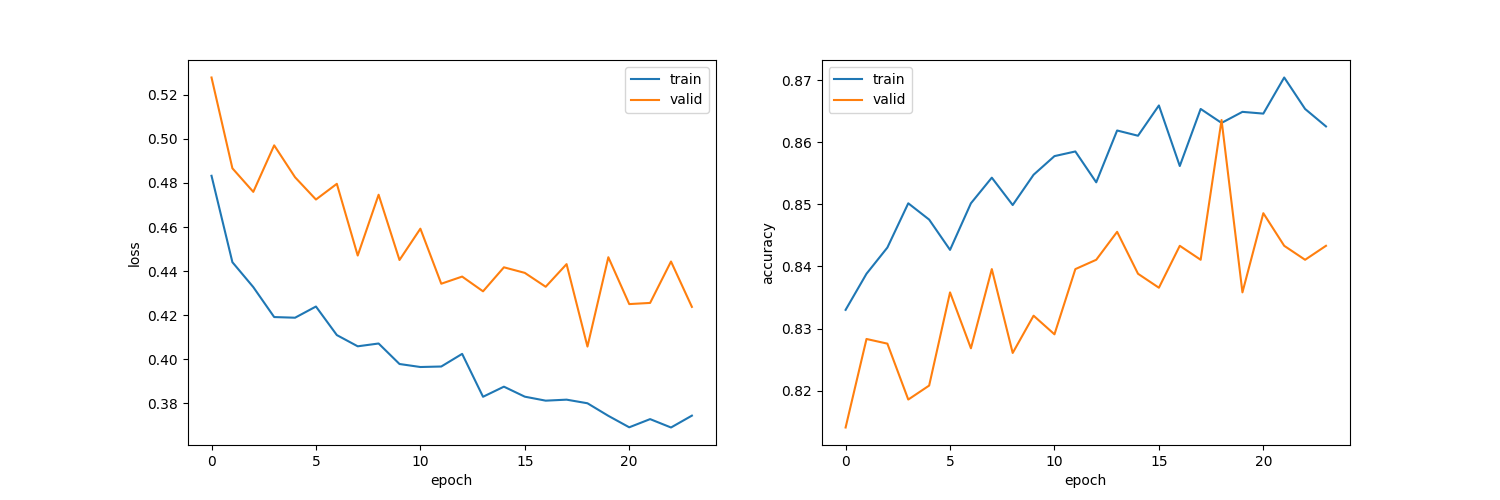
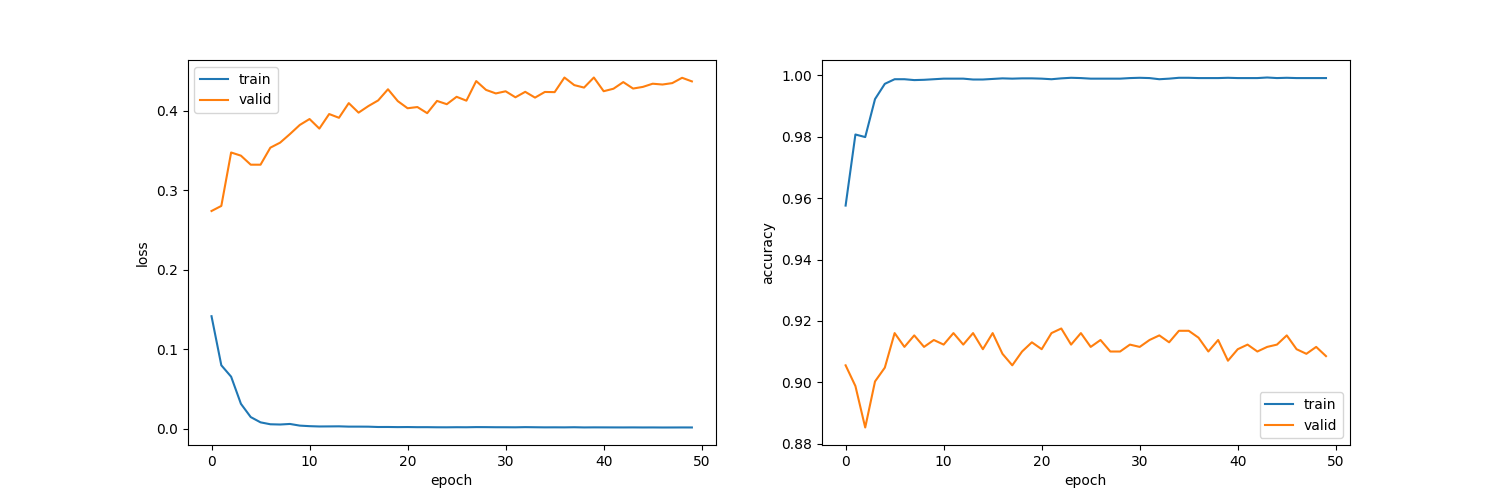
fix: knock79.pyの修正

diff --git a/ritsu/chapter08/knock79.py b/ritsu/chapter08/knock79.py
@@ -1,129 +1,3 @@
-# import torch
-# from torch import nn
-# from torch.utils.data import DataLoader, Dataset
-# import os
-# import time
-# import matplotlib.pyplot as plt
-
-# class NewsDataset(Dataset):
-#     def __init__(self, X, y):
-#         self.X = X
-#         self.y = y
-
-#     def __len__(self):
-#         return len(self.y)
-
-#     def __getitem__(self, idx):
-#         return self.X[idx], self.y[idx]
-
-# class MultiLayerPerceptron(nn.Module):
-#     def __init__(self, input_size, hidden_size, output_size, dropout_rate=0.5):
-#         super().__init__()
-#         self.fc1 = nn.Linear(input_size, hidden_size)
-#         self.fc2 = nn.Linear(hidden_size, output_size)
-#         self.dropout = nn.Dropout(dropout_rate)
-#         self.relu = nn.ReLU()
-
-#     def forward(self, x):
-#         x = self.fc1(x)
-#         x = self.relu(x)
-#         x = self.dropout(x)
-#         x = self.fc2(x)
-#         return x
-
-# def calc_loss_acc(model, criterion, loader, device):
-#     model.eval()
-#     loss = 0.0
-#     total = 0
-#     correct = 0
-#     with torch.no_grad():
-#         for inputs, labels in loader:
-#             inputs, labels = inputs.to(device), labels.to(device)
-#             outputs = model(inputs)
-#             loss += criterion(outputs, labels).item()
-#             pred = torch.argmax(outputs, dim=-1)
-#             total += labels.size(0)
-#             correct += (pred == labels).sum().item()
-#     return loss / len(loader), correct / total
-
-# def train_model(model, criterion, optimizer, train_loader, valid_loader, num_epochs, device):
-#     model.to(device)
-#     best_acc = 0.0
-#     for epoch in range(num_epochs):
-#         model.train()
-#         total_loss = 0.0
-#         start_time = time.time()
-
-#         for inputs, labels in train_loader:
-#             inputs, labels = inputs.to(device), labels.to(device)
-#             optimizer.zero_grad()
-#             outputs = model(inputs)
-#             loss = criterion(outputs, labels)
-#             loss.backward()
-#             optimizer.step()
-#             total_loss += loss.item()
-
-#         train_loss = total_loss / len(train_loader)
-#         valid_loss, valid_acc = calc_loss_acc(model, criterion, valid_loader, device)
-
-#         epoch_time = time.time() - start_time
-#         print(f'Epoch {epoch+1}/{num_epochs}, '
-#               f'Train Loss: {train_loss:.4f}, '
-#               f'Valid Loss: {valid_loss:.4f}, Valid Acc: {valid_acc:.4f}, '
-#               f'Time: {epoch_time:.2f}s')
-
-#         if valid_acc > best_acc:
-#             best_acc = valid_acc
-#             torch.save(model.state_dict(), 'best_model.pth')
-
-#     return best_acc
-
-# def main():
-#     current_dir = os.path.dirname(os.path.abspath(__file__))
-
-#     device = torch.device("cuda" if torch.cuda.is_available() else "cpu")
-#     print(f"Using device: {device}")
-
-#     X_train = torch.load(os.path.join(current_dir, "X_train.pt"))
-#     X_valid = torch.load(os.path.join(current_dir, "X_valid.pt"))
-#     X_test = torch.load(os.path.join(current_dir, "X_test.pt"))
-#     y_train = torch.load(os.path.join(current_dir, "y_train.pt"))
-#     y_valid = torch.load(os.path.join(current_dir, "y_valid.pt"))
-#     y_test = torch.load(os.path.join(current_dir, "y_test.pt"))
-
-#     dataset_train = NewsDataset(X_train, y_train)
-#     dataset_valid = NewsDataset(X_valid, y_valid)
-#     dataset_test = NewsDataset(X_test, y_test)
-
-#     batch_size = 64
-#     dataloader_train = DataLoader(dataset_train, batch_size=batch_size, shuffle=True)
-#     dataloader_valid = DataLoader(dataset_valid, batch_size=len(dataset_valid), shuffle=False)
-#     dataloader_test = DataLoader(dataset_test, batch_size=len(dataset_test), shuffle=False)
-
-#     input_size = 300
-#     hidden_size = 128
-#     output_size = 4
-#     model = MultiLayerPerceptron(input_size, hidden_size, output_size)
-#     criterion = nn.CrossEntropyLoss()
-#     optimizer = torch.optim.Adam(model.parameters(), lr=0.001, weight_decay=1e-5)
-
-#     num_epochs = 30
-#     best_acc = train_model(model, criterion, optimizer, dataloader_train, dataloader_valid, num_epochs, device)
-
-#     # Load the best model and evaluate on test set
-#     model.load_state_dict(torch.load('best_model.pth'))
-#     test_loss, test_acc = calc_loss_acc(model, criterion, dataloader_test, device)
-    
-#     print(f"\nBest validation accuracy: {best_acc:.4f}")
-#     print(f"Test accuracy: {test_acc:.4f}")
-
-# if __name__ == "__main__":
-#     main()
-
-
-
-
-
 import torch
 from torch import nn
 import torch.nn.functional as F
@@ -132,22 +6,31 @@ import matplotlib.pyplot as plt
 import numpy as np
 import time
 
+# 多層パーセプトロンネットワークの定義
 class MultiLayerPerceptronNetwork(nn.Module):
-    def __init__(self, input_size, mid_size, output_size, mid_layers):
+    def __init__(self, input_size, hidden_sizes, output_size):
         super().__init__()
-        self.mid_layers = mid_layers
-        self.fc = nn.Linear(input_size, mid_size)
-        self.fc_mid = nn.Linear(mid_size, mid_size)
-        self.fc_out = nn.Linear(mid_size, output_size)
-        self.bn = nn.BatchNorm1d(mid_size)
+        self.layers = nn.ModuleList()
+        # 入力層から最初の隠れ層への線形変換
+        self.layers.append(nn.Linear(input_size, hidden_sizes[0]))
+        # 隠れ層間の線形変換
+        for i in range(1, len(hidden_sizes)):
+            self.layers.append(nn.Linear(hidden_sizes[i-1], hidden_sizes[i]))
+        # 最後の隠れ層から出力層への線形変換
+        self.layers.append(nn.Linear(hidden_sizes[-1], output_size))
+        # 各隠れ層に対応するバッチ正規化層
+        self.bn_layers = nn.ModuleList([nn.BatchNorm1d(size) for size in hidden_sizes])
 
     def forward(self, x):
-        x = F.relu(self.fc(x))
-        for _ in range(self.mid_layers):
-            x = F.relu(self.bn(self.fc_mid(x)))
-        x = self.fc_out(x)
+        # 順伝播の定義
+        for i, (layer, bn) in enumerate(zip(self.layers[:-1], self.bn_layers)):
+            # 線形変換 -> バッチ正規化 -> ReLU活性化
+            x = F.relu(bn(layer(x)))
+        # 最終層（出力層）の線形変換
+        x = self.layers[-1](x)
         return x
 
+# ニュースデータセットのカスタム定義
 class NewsDataset(Dataset):
     def __init__(self, x, y):
         self.x = x
@@ -159,6 +42,7 @@ class NewsDataset(Dataset):
     def __getitem__(self, idx):
         return [self.x[idx], self.y[idx]]
 
+# モデルの精度を計算する関数
 def calc_acc(model, loader, device):
     model.eval()
     total = 0
@@ -173,6 +57,7 @@ def calc_acc(model, loader, device):
             correct += (pred == labels).sum().item()
     return correct / total
 
+# モデルの損失と精度を計算する関数
 def calc_loss_acc(model, criterion, loader, device):
     model.eval()
     loss = 0.0
@@ -189,9 +74,11 @@ def calc_loss_acc(model, criterion, loader, device):
             correct += (pred == labels).sum().item()
     return loss / len(loader), correct / total
 
+# モデルの学習を行う関数
 def train_model(dataset_train, dataset_valid, batch_size, model, criterion, optimizer, num_epochs, device):
     model.to(device)
     
+    # データローダーの設定
     dataloader_train = DataLoader(dataset_train, batch_size=batch_size, shuffle=True)
     dataloader_valid = DataLoader(dataset_valid, batch_size=len(dataset_valid), shuffle=False)
     
@@ -213,27 +100,24 @@ def train_model(dataset_train, dataset_valid, batch_size, model, criterion, opti
         
         end_time = time.time()
         
+        # 訓練データと検証データの損失と精度を計算
         loss_train, acc_train = calc_loss_acc(model, criterion, dataloader_train, device)
         loss_valid, acc_valid = calc_loss_acc(model, criterion, dataloader_valid, device)
         log_train.append([loss_train, acc_train])
         log_valid.append([loss_valid, acc_valid])
         
-        torch.save({
-            'epoch': epoch,
-            'model_state_dict': model.state_dict(),
-            'optimizer_state_dict': optimizer.state_dict()
-        }, f'checkpoint{epoch + 1}.pt')
-        
         print(f'epoch: {epoch + 1}, loss_train: {loss_train:.4f}, accuracy_train: {acc_train:.4f}, '
               f'loss_valid: {loss_valid:.4f}, accuracy_valid: {acc_valid:.4f}, '
               f'train_time: {(end_time - start_time):.4f}sec')
     
-    return log_train, log_valid
+    return model, log_train, log_valid
 
 def main():
+    # GPUが利用可能な場合はGPUを、そうでない場合はCPUを使用
     device = torch.device("cuda" if torch.cuda.is_available() else "cpu")
     print(f"Using device: {device}")
 
+    # データの読み込み
     X_train = torch.load("X_train.pt")
     X_valid = torch.load("X_valid.pt")
     X_test = torch.load("X_test.pt")
@@ -241,20 +125,33 @@ def main():
     y_valid = torch.load("y_valid.pt")
     y_test = torch.load("y_test.pt")
 
+    # データセットの作成
     dataset_train = NewsDataset(X_train, y_train)
     dataset_valid = NewsDataset(X_valid, y_valid)
     dataset_test = NewsDataset(X_test, y_test)
 
-    model = MultiLayerPerceptronNetwork(300, 200, 4, 1)
+    # モデルのパラメータ設定
+    input_size = 300
+    hidden_sizes = [200]  # 中間層のユニット数
+    # hidden_sizes = [1000, 500, 200]
+    # hidden_sizes = [200, 100] 
+    output_size = 4
+    model = MultiLayerPerceptronNetwork(input_size, hidden_sizes, output_size)
     criterion = nn.CrossEntropyLoss()
-    # L2正則化を採用するためにweight_decayパラメータを追加
-    optimizer = torch.optim.SGD(model.parameters(), lr=1e-1, weight_decay=1e-5)
+    
+    # オプティマイザの選択（コメントアウトされた行は他のオプションを示しています）
+    # optimizer = torch.optim.Adam(model.parameters(), lr=1e-1)
+    optimizer = torch.optim.SGD(model.parameters(), lr=1e-1)
+    # optimizer = torch.optim.RMSprop(model.parameters(), lr=1e-3)
+    # optimizer = torch.optim.Adagrad(model.parameters(), lr=1e-3, weight_decay=1e-5)
+    
     num_epochs = 50
     batch_size = 64
 
-    log_train, log_valid = train_model(dataset_train, dataset_valid, batch_size, model, criterion, optimizer, num_epochs, device)
+    # モデルの学習
+    model, log_train, log_valid = train_model(dataset_train, dataset_valid, batch_size, model, criterion, optimizer, num_epochs, device)
 
-    # プロットの作成
+    # 学習曲線のプロット
     fig, ax = plt.subplots(1, 2, figsize=(15, 5))
     ax[0].plot(np.array(log_train)[:, 0], label='train')
     ax[0].plot(np.array(log_valid)[:, 0], label='valid')
@@ -266,7 +163,7 @@ def main():
     ax[1].set_xlabel('epoch')
     ax[1].set_ylabel('accuracy')
     ax[1].legend()
-    plt.savefig("79.png")
+    plt.savefig("79_improved.png")
 
     # 最終的な精度の計算
     dataloader_train = DataLoader(dataset_train, batch_size=len(dataset_train), shuffle=False)
@@ -280,8 +177,11 @@ if __name__ == "__main__":
     main()
 
 """
-一番上の基本コードにL2正則化を加えた場合
-
+SGD lr=1e-1 hidden_sizes=[200] epoch=50
 train_acc : 0.9990629685157422
-test_acc : 0.9100449775112444
+test_acc : 0.9227886056971514
+
+SGD lr=1e-2 hidden_sizes=[1000, 500, 200] epoch=50
+train_acc : 0.9989692653673163
+test_acc : 0.9212893553223388
 """

diff --git a/ritsu/chapter08/knock78.py b/ritsu/chapter08/knock78.py
@@ -112,3 +112,40 @@ def main():
 
 if __name__ == "__main__":
     main()
+
+"""
+Using device: cpu
+
+Training with batch size: 1
+Epoch 1/1, Train Loss: 0.4442, Valid Loss: 0.3603, Valid Acc: 0.8636, Time: 3.62s
+
+Training with batch size: 2
+Epoch 1/1, Train Loss: 0.5683, Valid Loss: 0.4485, Valid Acc: 0.8411, Time: 2.05s
+
+Training with batch size: 4
+Epoch 1/1, Train Loss: 0.6828, Valid Loss: 0.5065, Valid Acc: 0.8291, Time: 1.13s
+
+Training with batch size: 8
+Epoch 1/1, Train Loss: 0.8284, Valid Loss: 0.6612, Valid Acc: 0.7579, Time: 0.65s
+
+Training with batch size: 16
+Epoch 1/1, Train Loss: 0.9551, Valid Loss: 0.7578, Valid Acc: 0.7399, Time: 0.44s
+
+Training with batch size: 32
+Epoch 1/1, Train Loss: 1.1568, Valid Loss: 0.9738, Valid Acc: 0.6792, Time: 0.27s
+
+Training with batch size: 64
+Epoch 1/1, Train Loss: 1.2650, Valid Loss: 1.0410, Valid Acc: 0.6064, Time: 0.20s
+
+Training with batch size: 128
+Epoch 1/1, Train Loss: 1.6297, Valid Loss: 1.3020, Valid Acc: 0.4370, Time: 0.19s
+
+Training with batch size: 256
+Epoch 1/1, Train Loss: 1.9138, Valid Loss: 1.6683, Valid Acc: 0.2879, Time: 0.16s
+
+Training with batch size: 512
+Epoch 1/1, Train Loss: 2.1196, Valid Loss: 1.9023, Valid Acc: 0.2901, Time: 0.16s
+
+Training with batch size: 1024
+Epoch 1/1, Train Loss: 2.2980, Valid Loss: 2.1704, Valid Acc: 0.1619, Time: 0.14s
+"""
